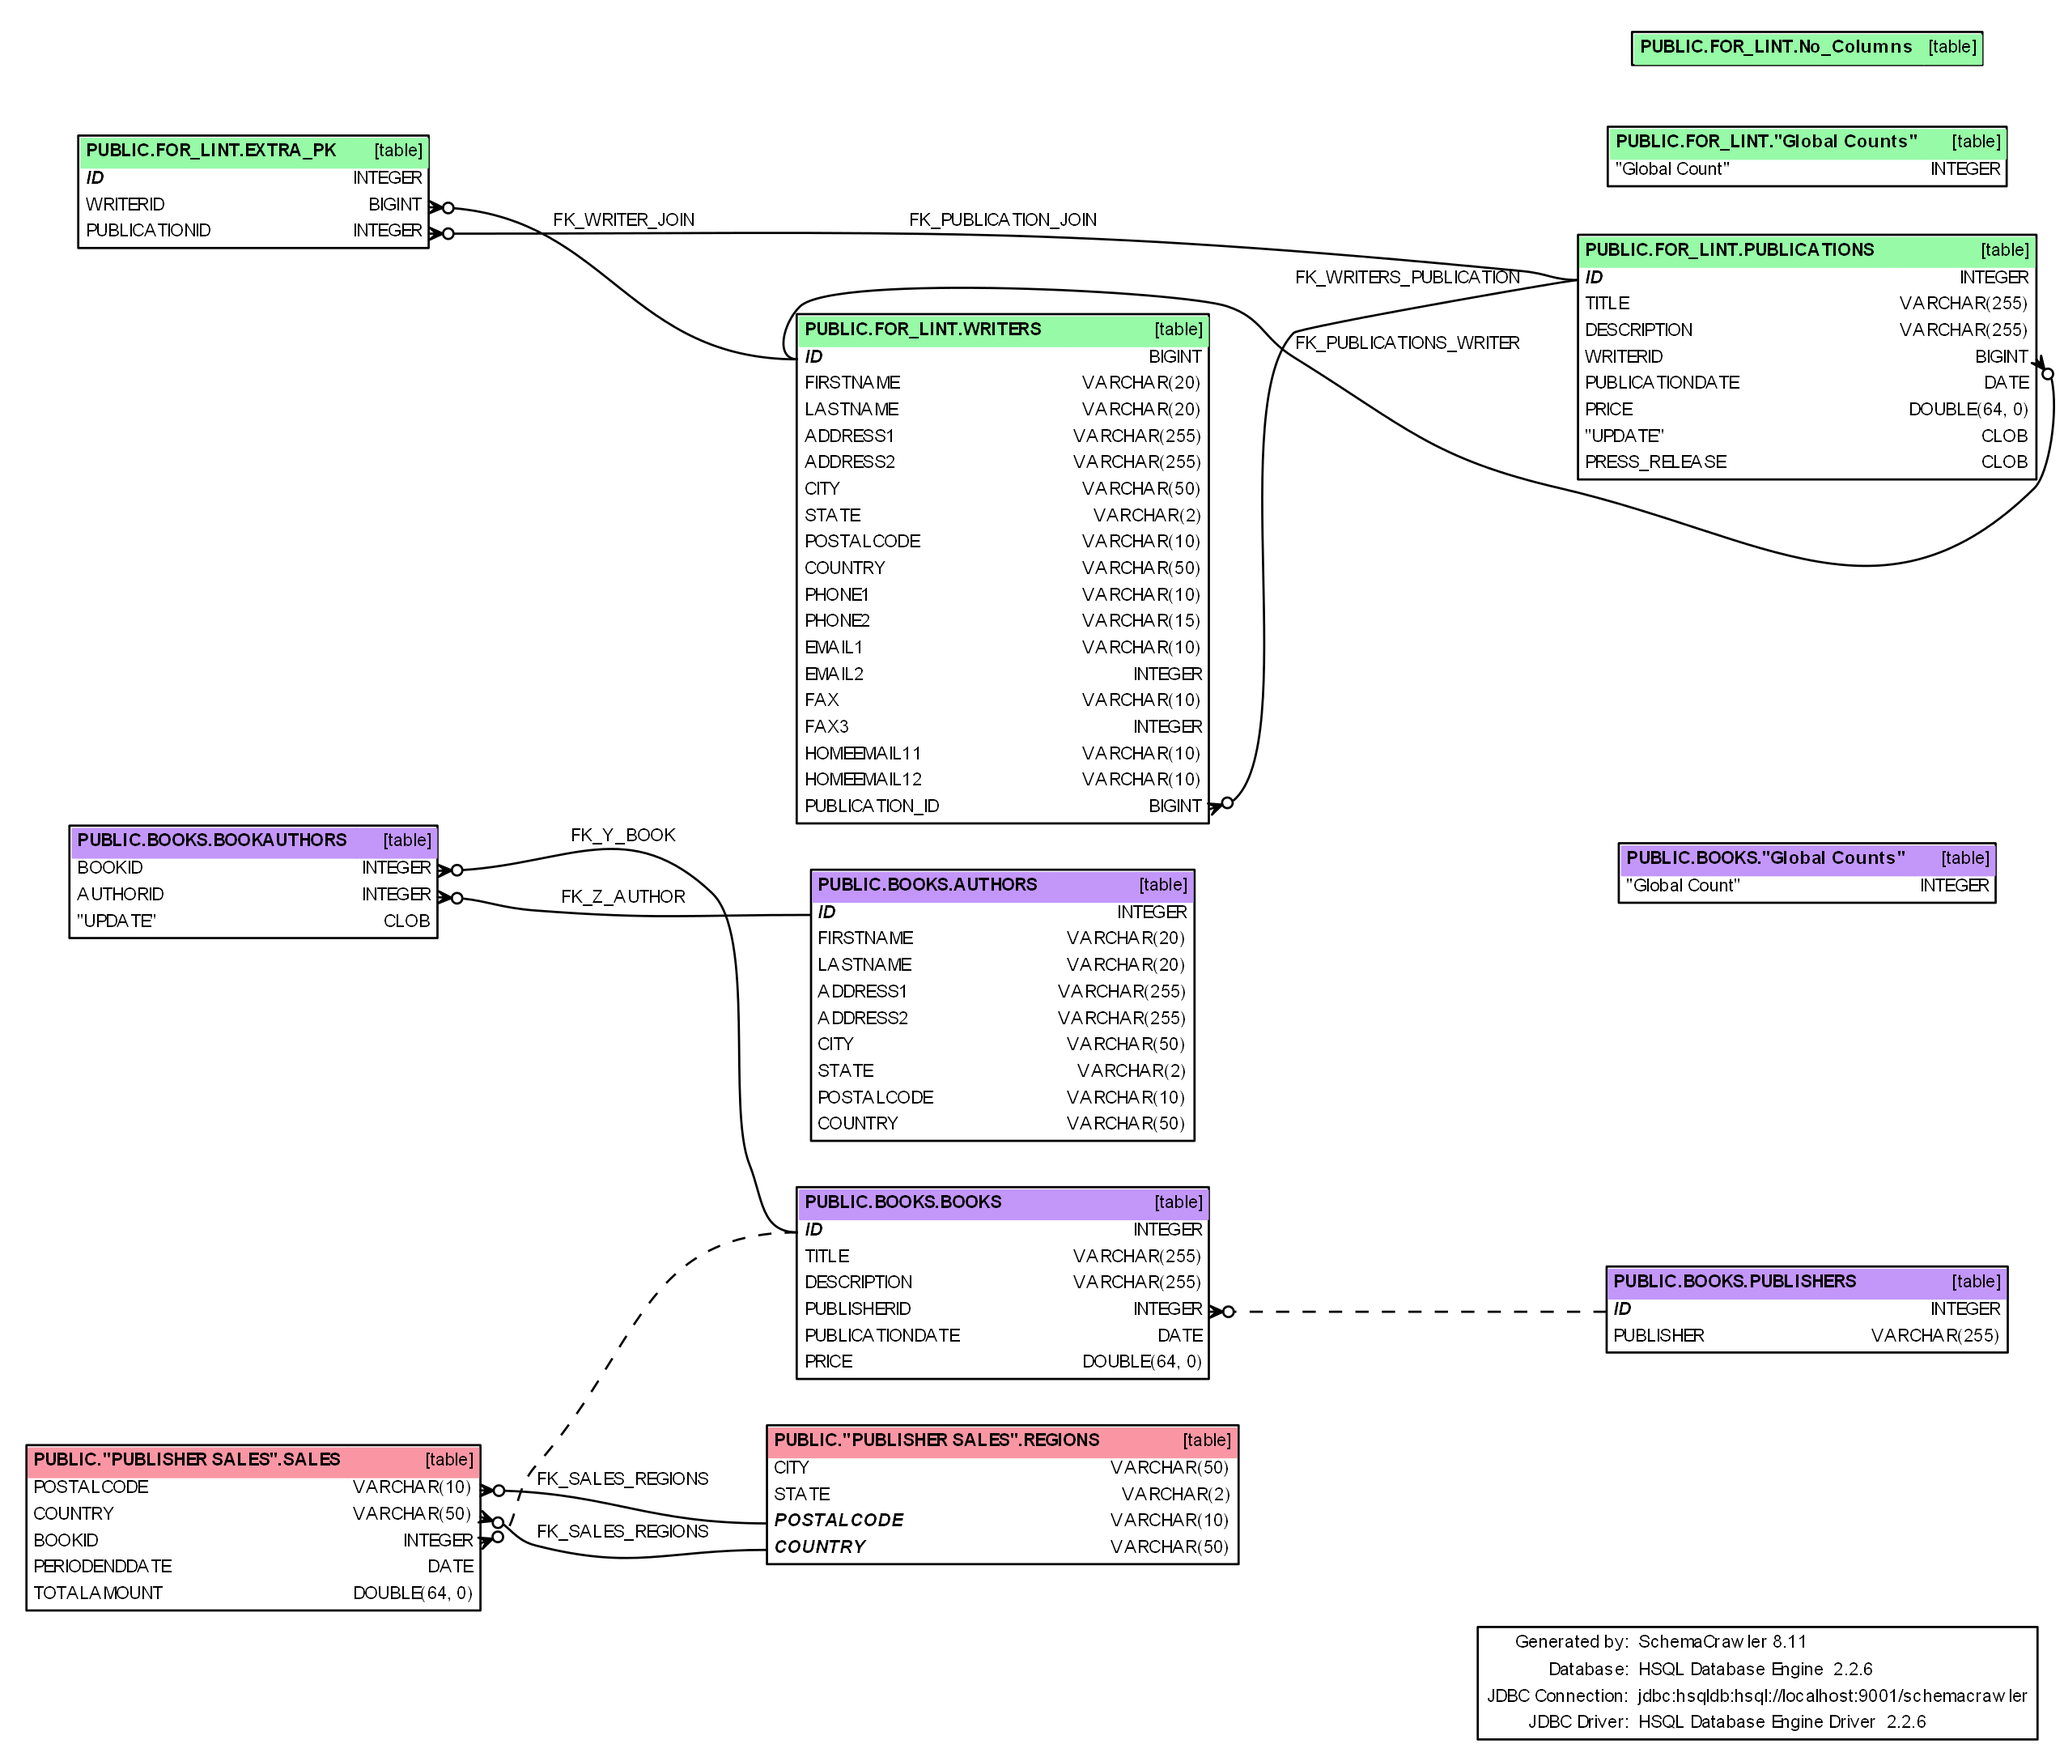
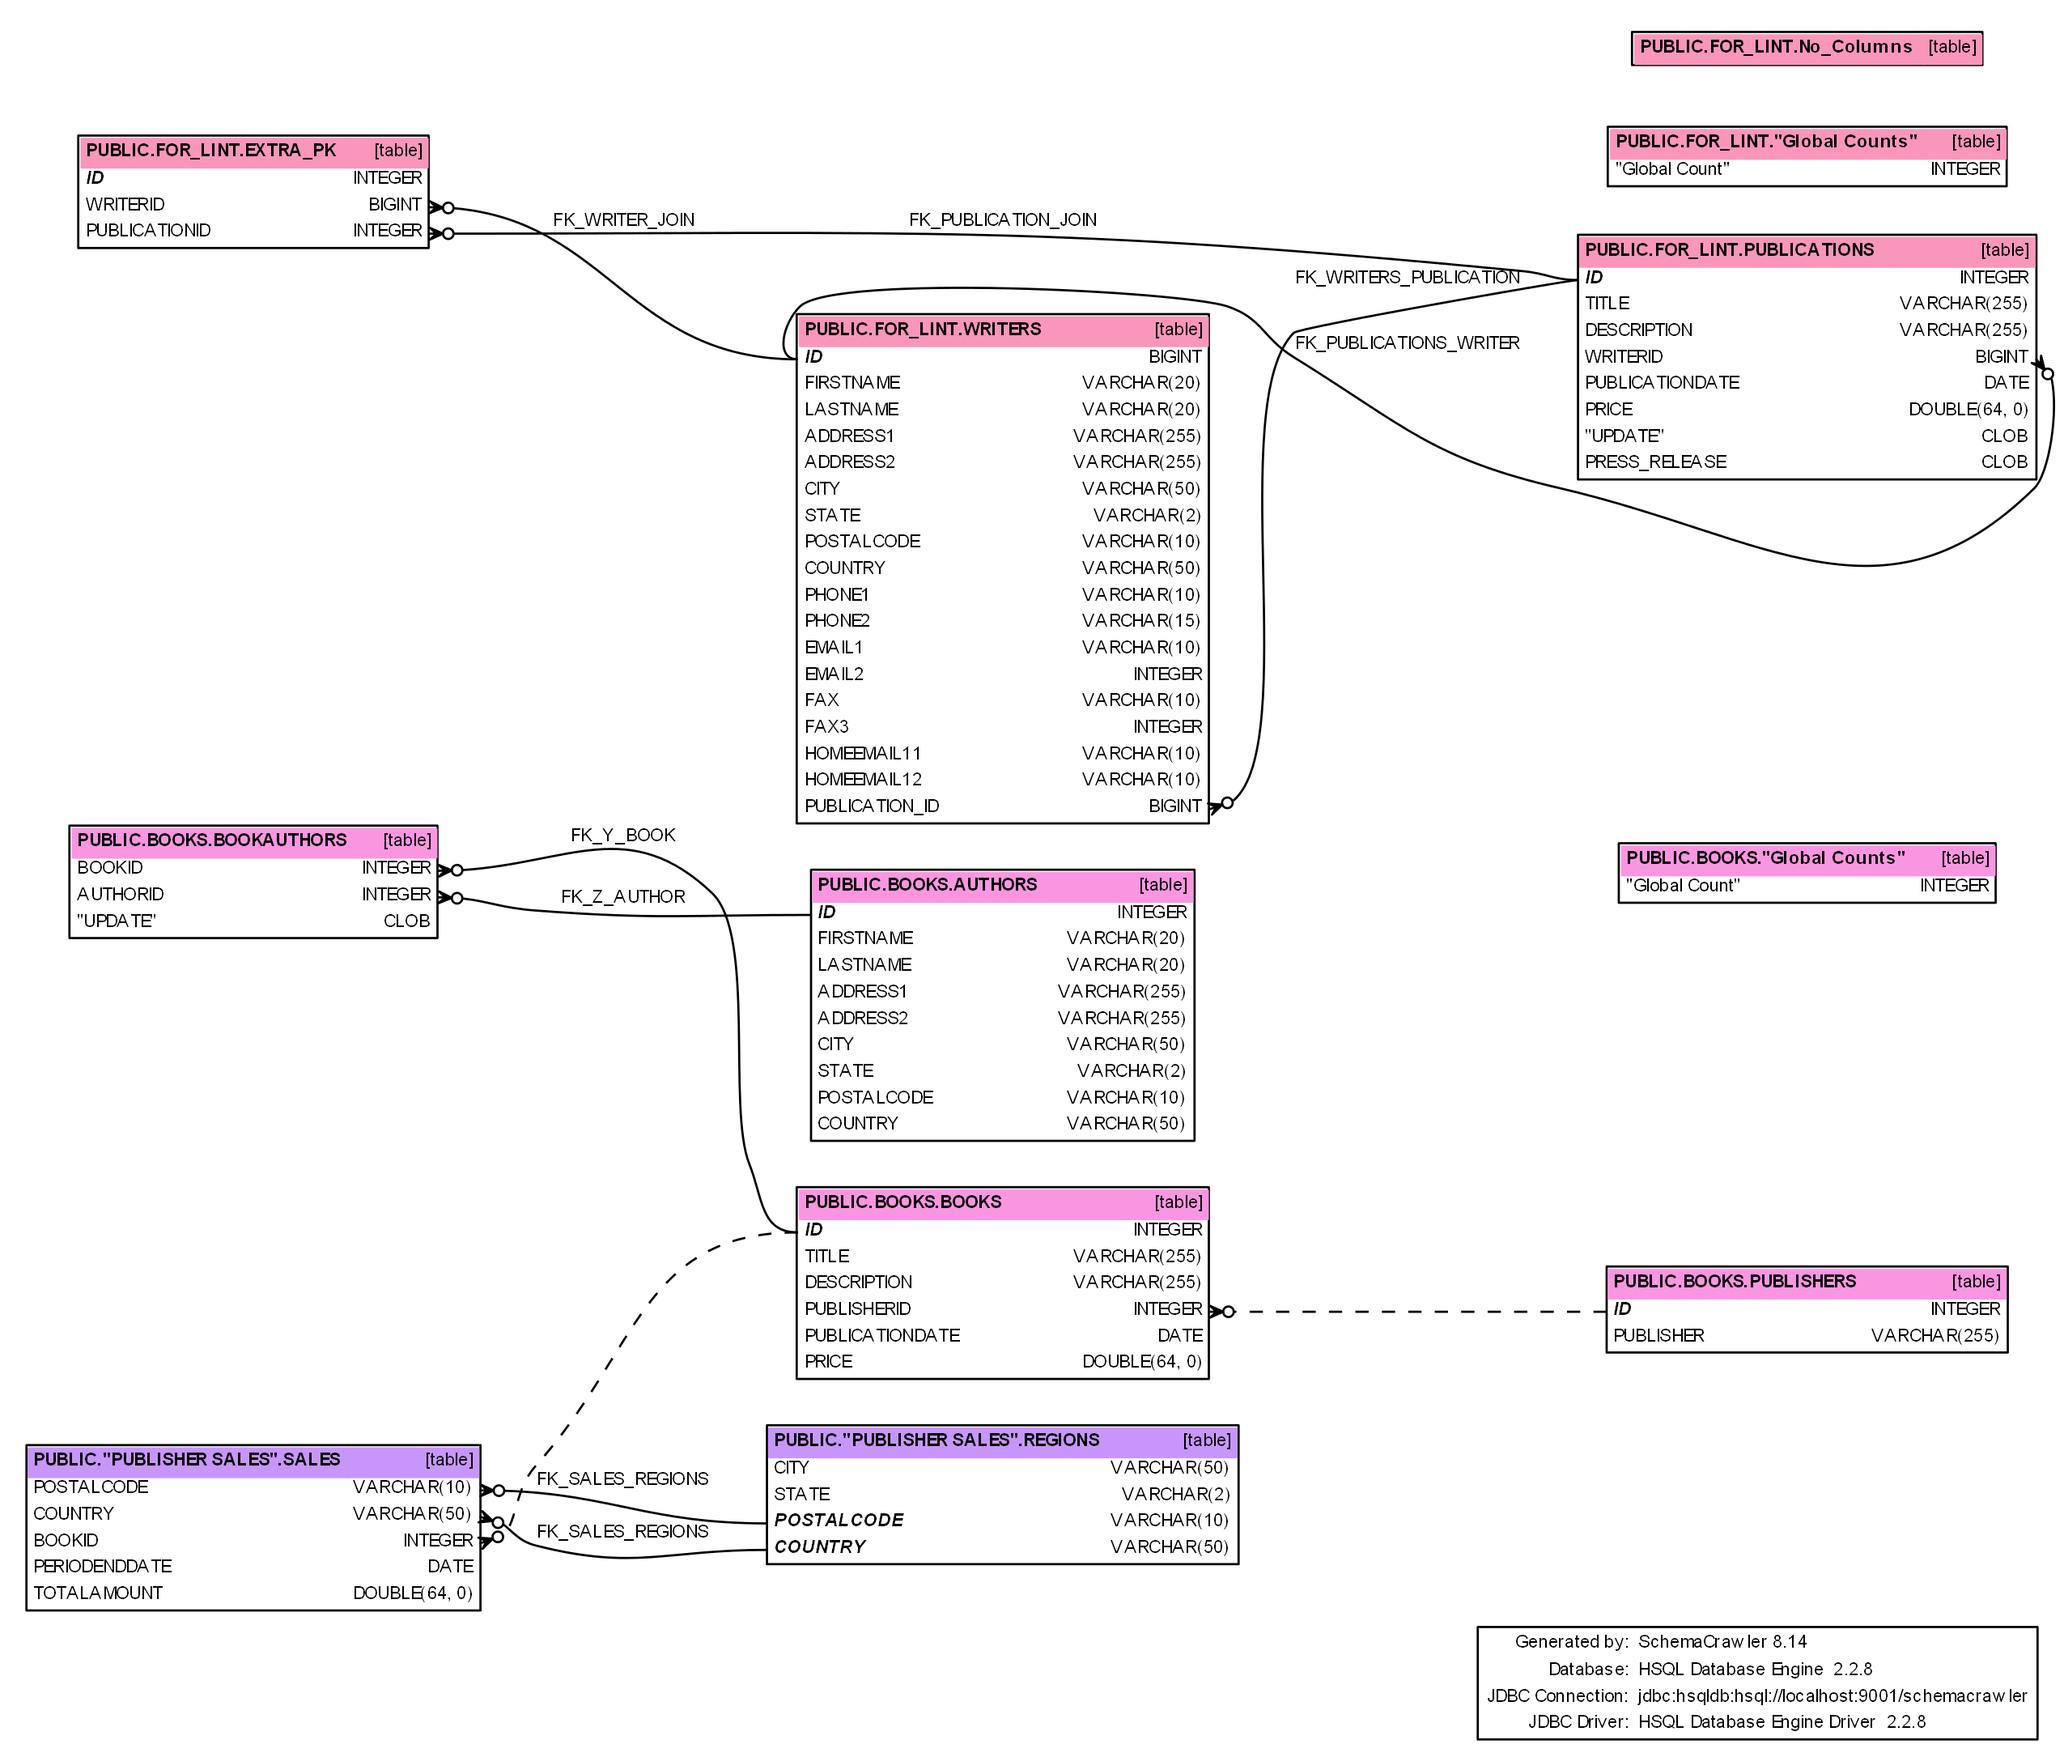
git-svn-id: svn://svn.code.sf.net/p/schemacrawler/code/trunk@2352 3243f2e7-4e1b-42d2-9742-d984016aa316

diff --git a/schemacrawler-integrations/src/main/java/schemacrawler/tools/integration/graph/DotWriter.java b/schemacrawler-integrations/src/main/java/schemacrawler/tools/integration/graph/DotWriter.java
@@ -21,7 +21,6 @@
 package schemacrawler.tools.integration.graph;
 
 
-import java.awt.Color;
 import java.io.File;
 import java.io.IOException;
 import java.io.PrintWriter;
@@ -47,25 +46,6 @@ import sf.util.Utility;
 
 final class DotWriter
 {
-
-  private static float random = 0.123456f;
-
-  private static String nextRandomHTMLPastelColorValue()
-  {
-    final float golden_ratio_conjugate = 0.618033988749895f;
-
-    float hue = random;
-    hue += golden_ratio_conjugate;
-    hue %= 1;
-    random = hue;
-
-    final float saturation = 0.4f;
-    final float luminance = 0.98f;
-
-    final Color color = Color.getHSBColor(hue, saturation, luminance);
-
-    return "#" + Integer.toHexString(color.getRGB()).substring(2).toUpperCase();
-  }
 
   private final PrintWriter out;
   private final Map<Schema, String> colorMap;
@@ -252,7 +232,7 @@ final class DotWriter
     final String tableNameBgColor;
     if (!colorMap.containsKey(schema))
     {
-      tableNameBgColor = nextRandomHTMLPastelColorValue();
+      tableNameBgColor = Utility.pastelColorHTMLValue(schema.getName());
       colorMap.put(schema, tableNameBgColor);
     }
     else

diff --git a/schemacrawler-api/src/main/java/sf/util/Utility.java b/schemacrawler-api/src/main/java/sf/util/Utility.java
@@ -20,6 +20,7 @@
 package sf.util;
 
 
+import java.awt.Color;
 import java.io.BufferedReader;
 import java.io.IOException;
 import java.io.InputStream;
@@ -130,6 +131,25 @@ public final class Utility
       }
     }
     return true;
+  }
+
+  public static String pastelColorHTMLValue(final String text)
+  {
+    final float hue;
+    if (isBlank(text))
+    {
+      hue = 0.123456f;
+    }
+    else
+    {
+      hue = text.hashCode() / 5119f % 1;
+    }
+
+    final float saturation = 0.4f;
+    final float luminance = 0.98f;
+
+    final Color color = Color.getHSBColor(hue, saturation, luminance);
+    return "#" + Integer.toHexString(color.getRGB()).substring(2).toUpperCase();
   }
 
   public static String readFully(final InputStream stream)
